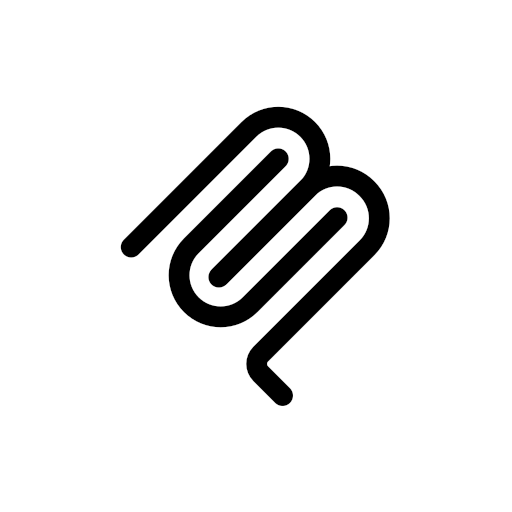
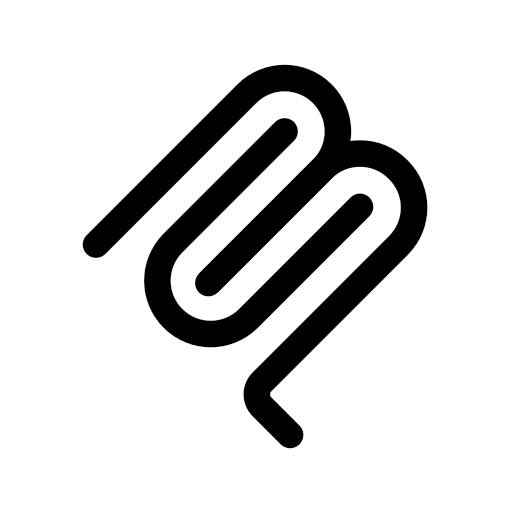
chore: address review feedback
- README: replace badge table with Krusader-style centered <p> + nbsp
- README: bump badges to for-the-badge / height=36
- README: add BMC as a badge (yellow buymeacoffee shields.io style)
- README: add Arch (amd64 | arm64) badge to match Krusader
- README: add blank lines before every heading for less cramped layout
- icon: bigger MCP logo on white rounded square (padding 100 -> 56)
- add ca_profile.xml at repo root (required by ca.unraid.net/submit)

diff --git a/README.md b/README.md
@@ -1,21 +1,20 @@
 <h1 align="center">MCP-Server for Obsidian on Unraid</h1>
 
-<p align="center">
+<a href="https://github.com/MarkusPfundstein/mcp-obsidian">
   <img src="https://raw.githubusercontent.com/junkerderprovinz/mcp-obsidian/main/.github/assets/mcp-obsidian-banner.png" alt="MCP Obsidian" width="100%">
-</p>
+</a>
 
-<table width="100%" border="0" cellspacing="0" cellpadding="0">
-  <tr>
-    <td align="center"><a href="https://github.com/junkerderprovinz/mcp-obsidian/actions/workflows/build.yml"><img src="https://img.shields.io/github/actions/workflow/status/junkerderprovinz/mcp-obsidian/build.yml?branch=main&label=Build&style=flat-square&logo=githubactions&logoColor=white" alt="Build"></a></td>
-    <td align="center"><a href="https://github.com/junkerderprovinz/mcp-obsidian/actions/workflows/lint.yml"><img src="https://img.shields.io/github/actions/workflow/status/junkerderprovinz/mcp-obsidian/lint.yml?branch=main&label=Lint&style=flat-square&logo=githubactions&logoColor=white" alt="Lint"></a></td>
-    <td align="center"><a href="https://github.com/junkerderprovinz/mcp-obsidian/pkgs/container/mcp-obsidian"><img src="https://img.shields.io/badge/Image-ghcr.io-1d99f3?style=flat-square&logo=docker&logoColor=white" alt="Image"></a></td>
-    <td align="center"><a href="https://github.com/MarkusPfundstein/mcp-obsidian"><img src="https://img.shields.io/badge/Upstream-mcp--obsidian-6c4ab6?style=flat-square&logo=github&logoColor=white" alt="Upstream"></a></td>
-    <td align="center"><a href="https://modelcontextprotocol.io"><img src="https://img.shields.io/badge/Protocol-MCP-6c4ab6?style=flat-square&logo=anthropic&logoColor=white" alt="MCP"></a></td>
-    <td align="center"><a href="https://obsidian.md"><img src="https://img.shields.io/badge/App-Obsidian-7c3aed?style=flat-square&logo=obsidian&logoColor=white" alt="Obsidian"></a></td>
-    <td align="center"><a href="https://unraid.net"><img src="https://img.shields.io/badge/Unraid-Template-f15a2c?style=flat-square&logo=unraid&logoColor=white" alt="Unraid"></a></td>
-    <td align="center"><a href="https://github.com/junkerderprovinz/mcp-obsidian/blob/main/LICENSE"><img src="https://img.shields.io/badge/License-MIT-yellow?style=flat-square&logo=opensourceinitiative&logoColor=white" alt="License"></a></td>
-  </tr>
-</table>
+<p align="center">
+  <a href="https://github.com/junkerderprovinz/mcp-obsidian/actions/workflows/build.yml"><img src="https://img.shields.io/github/actions/workflow/status/junkerderprovinz/mcp-obsidian/build.yml?branch=main&label=Build&style=for-the-badge&logo=githubactions&logoColor=white" alt="Build" height="36"></a>&nbsp;
+  <a href="https://github.com/junkerderprovinz/mcp-obsidian/actions/workflows/lint.yml"><img src="https://img.shields.io/github/actions/workflow/status/junkerderprovinz/mcp-obsidian/lint.yml?branch=main&label=Lint&style=for-the-badge&logo=githubactions&logoColor=white" alt="Lint" height="36"></a>&nbsp;
+  <a href="https://github.com/junkerderprovinz/mcp-obsidian/pkgs/container/mcp-obsidian"><img src="https://img.shields.io/badge/Image-ghcr.io-1d99f3?style=for-the-badge&logo=docker&logoColor=white" alt="Image" height="36"></a>&nbsp;
+  <a href="https://github.com/junkerderprovinz/mcp-obsidian/pkgs/container/mcp-obsidian"><img src="https://img.shields.io/badge/Arch-amd64%20%7C%20arm64-success?style=for-the-badge&logo=linux&logoColor=white" alt="Arch" height="36"></a>&nbsp;
+  <a href="https://modelcontextprotocol.io"><img src="https://img.shields.io/badge/Protocol-MCP-6c4ab6?style=for-the-badge&logo=anthropic&logoColor=white" alt="MCP" height="36"></a>&nbsp;
+  <a href="https://obsidian.md"><img src="https://img.shields.io/badge/App-Obsidian-7c3aed?style=for-the-badge&logo=obsidian&logoColor=white" alt="Obsidian" height="36"></a>&nbsp;
+  <a href="https://unraid.net"><img src="https://img.shields.io/badge/Unraid-Template-f15a2c?style=for-the-badge&logo=unraid&logoColor=white" alt="Unraid" height="36"></a>&nbsp;
+  <a href="LICENSE"><img src="https://img.shields.io/badge/License-MIT-yellow?style=for-the-badge&logo=opensourceinitiative&logoColor=white" alt="License" height="36"></a>&nbsp;
+  <a href="https://buymeacoffee.com/junkerderprovinz"><img src="https://img.shields.io/badge/Buy%20me%20a%20coffee-FFDD00?style=for-the-badge&logo=buymeacoffee&logoColor=black" alt="Buy me a coffee" height="36"></a>
+</p>
 
 <p align="center">
 Unraid Docker template for the MCP-server for Obsidian.<br>
@@ -23,6 +22,7 @@ Connects your local Obsidian Vault to AI agents like Open WebUI, Claude, or Gemi
 via the <a href="https://modelcontextprotocol.io">Model Context Protocol (MCP)</a> —
 no cloud sync, no third-party account, runs entirely on your own server.
 </p>
+
 
 ## Table of Contents
 
@@ -33,6 +33,7 @@ no cloud sync, no third-party account, runs entirely on your own server.
 5. [Networking Notes](#5-networking-notes)
 6. [Troubleshooting](#6-troubleshooting)
 7. [Contributing / License](#7-contributing--license)
+
 
 ## 1. What is this?
 
@@ -52,6 +53,7 @@ This container bridges your **Obsidian Vault** and any MCP-compatible AI client:
 - Your notes stay **fully local** — no data leaves your server
 - Compatible with **local LLMs** via Ollama as well as cloud models
 
+
 ### How it works
 
 ```
@@ -69,7 +71,9 @@ AI Client (Open WebUI / Claude / ...)
   Your Vault (Markdown files on disk)
 ```
 
+
 ## 2. Quick Start on Unraid
+
 
 ### Step 1 — Prepare Obsidian
 
@@ -82,6 +86,7 @@ Before installing the container, set up the Obsidian side:
    to the actual IP address of the machine running Obsidian (e.g. `192.168.1.50`).
 5. Note the **API Key** shown in the plugin settings — you will need it in Step 3.
 
+
 ### Step 2 — Install the template
 
 Pull the template directly into Unraid via the console or SSH:
@@ -91,6 +96,7 @@ mkdir -p /boot/config/plugins/dockerMan/templates-user && \
 curl -fsSL -o /boot/config/plugins/dockerMan/templates-user/my-mcp-obsidian.xml \
   https://raw.githubusercontent.com/junkerderprovinz/mcp-obsidian/main/templates/mcp-obsidian.xml
 ```
+
 
 ### Step 3 — Add the container
 
@@ -104,6 +110,7 @@ under *User templates*. Fill in the two required fields:
 
 Hit **Apply**. The container starts in a few seconds.
 
+
 ### Plain Docker (no Unraid)
 
 ```bash
@@ -116,6 +123,7 @@ docker run -d \
   ghcr.io/junkerderprovinz/mcp-obsidian:latest
 ```
 
+
 ## 3. Configuration
 
 | Variable | Default | Required | Description |
@@ -123,11 +131,13 @@ docker run -d \
 | `OBSIDIAN_API_KEY` | *(empty)* | Yes | API key from the Local REST API plugin in Obsidian |
 | `OBSIDIAN_HOST` | `http://192.168.1.50:27124` | Yes | URL of the machine running Obsidian with the plugin active |
 
+
 ### Ports
 
 | Port | Purpose |
 |---|---|
 | `9999` | MCP server — AI clients connect here |
+
 
 ## 4. Connecting to Open WebUI
 
@@ -144,7 +154,9 @@ Once the container is running, register it as a tool server in Open WebUI:
 From this point any model running through Open WebUI (local via Ollama or
 cloud via API key) can search and edit your Vault mid-conversation.
 
+
 ## 5. Networking Notes
+
 
 ### Custom network (Unraid `br0`)
 
@@ -157,10 +169,12 @@ the container's network (e.g. your desktop PC at `192.168.1.50`), or enable
 
 **Settings → Docker → Advanced View → Host access to custom networks: Enabled**
 
+
 ### Obsidian must be open
 
 The Local REST API plugin only serves requests while **Obsidian is running**.
 If Obsidian is closed, the MCP server will return connection errors to the AI client.
+
 
 ## 6. Troubleshooting
 
@@ -199,6 +213,7 @@ If Obsidian is closed, the MCP server will return connection errors to the AI cl
 - Verify the container IP and port are correct and reachable from the Open WebUI container
 </details>
 
+
 ## 7. Contributing / License
 
 Pull requests welcome. Issues: <https://github.com/junkerderprovinz/mcp-obsidian/issues>
@@ -210,16 +225,9 @@ This **wrapper repository** (Unraid template and README) is licensed under the
 its own upstream license. See the [upstream repository](https://github.com/MarkusPfundstein/mcp-obsidian)
 for details.
 
+
 ### Credits
 
 - [**mcp-obsidian**](https://github.com/MarkusPfundstein/mcp-obsidian) — Markus Pfundstein, the actual MCP server
 - [**Local REST API**](https://github.com/coddingtonbear/obsidian-local-rest-api) — coddingtonbear, the Obsidian plugin that makes this possible
 - [**Anthropic**](https://anthropic.com) — for the open MCP standard
-
-## Support this project
-
-If this template saves you a setup hassle, consider buying me a coffee:
-
-<p align="center">
-<a href="https://buymeacoffee.com/junkerderprovinz" target="_blank"><img src="https://raw.githubusercontent.com/junkerderprovinz/krusader/main/.github/assets/button-buy-me-a-coffee.png" width="220" alt="Buy me a coffee"/></a>
-</p>
